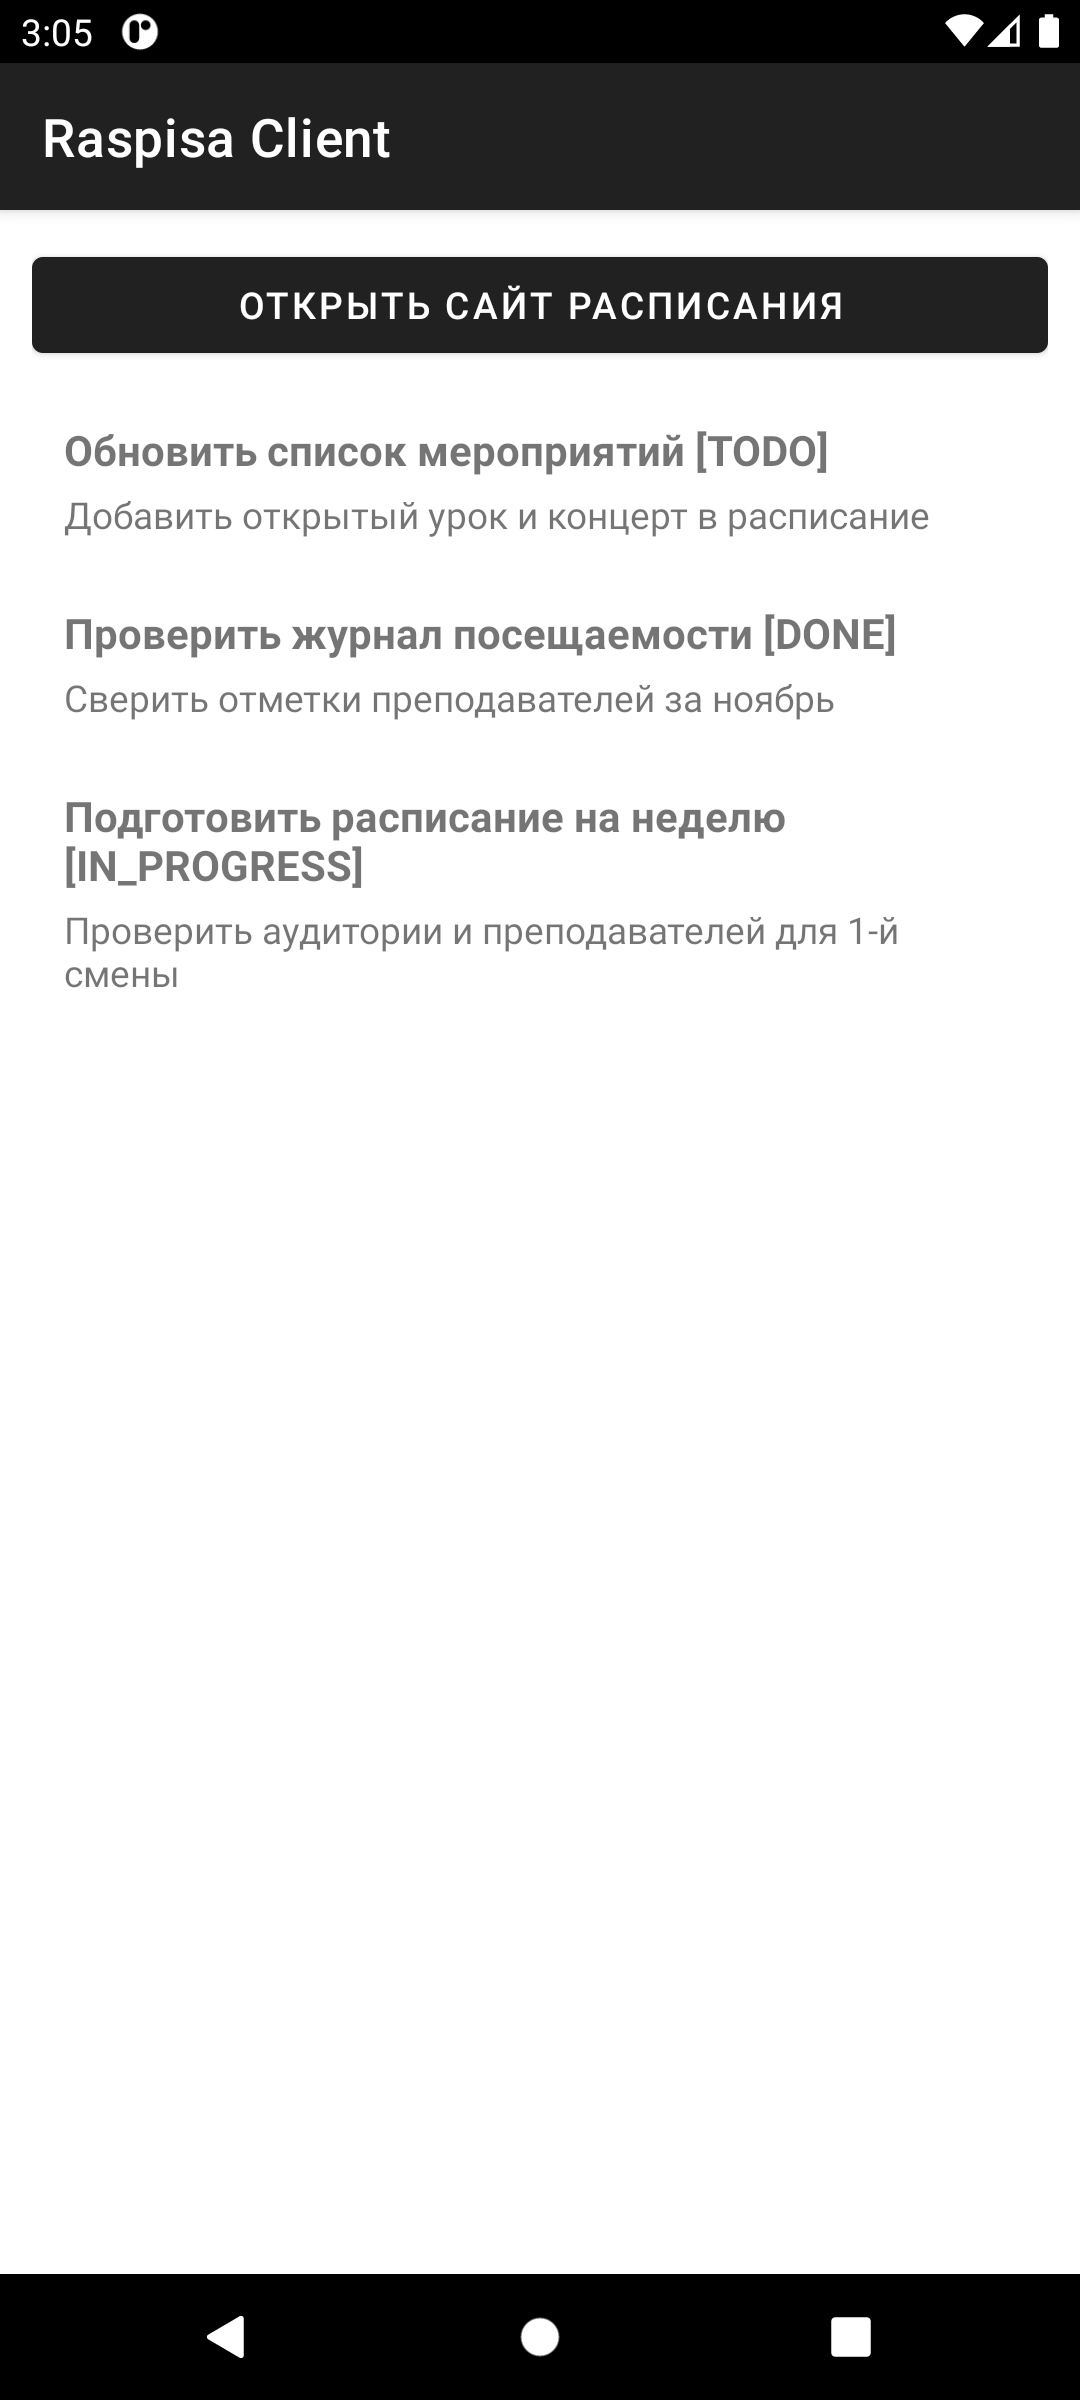
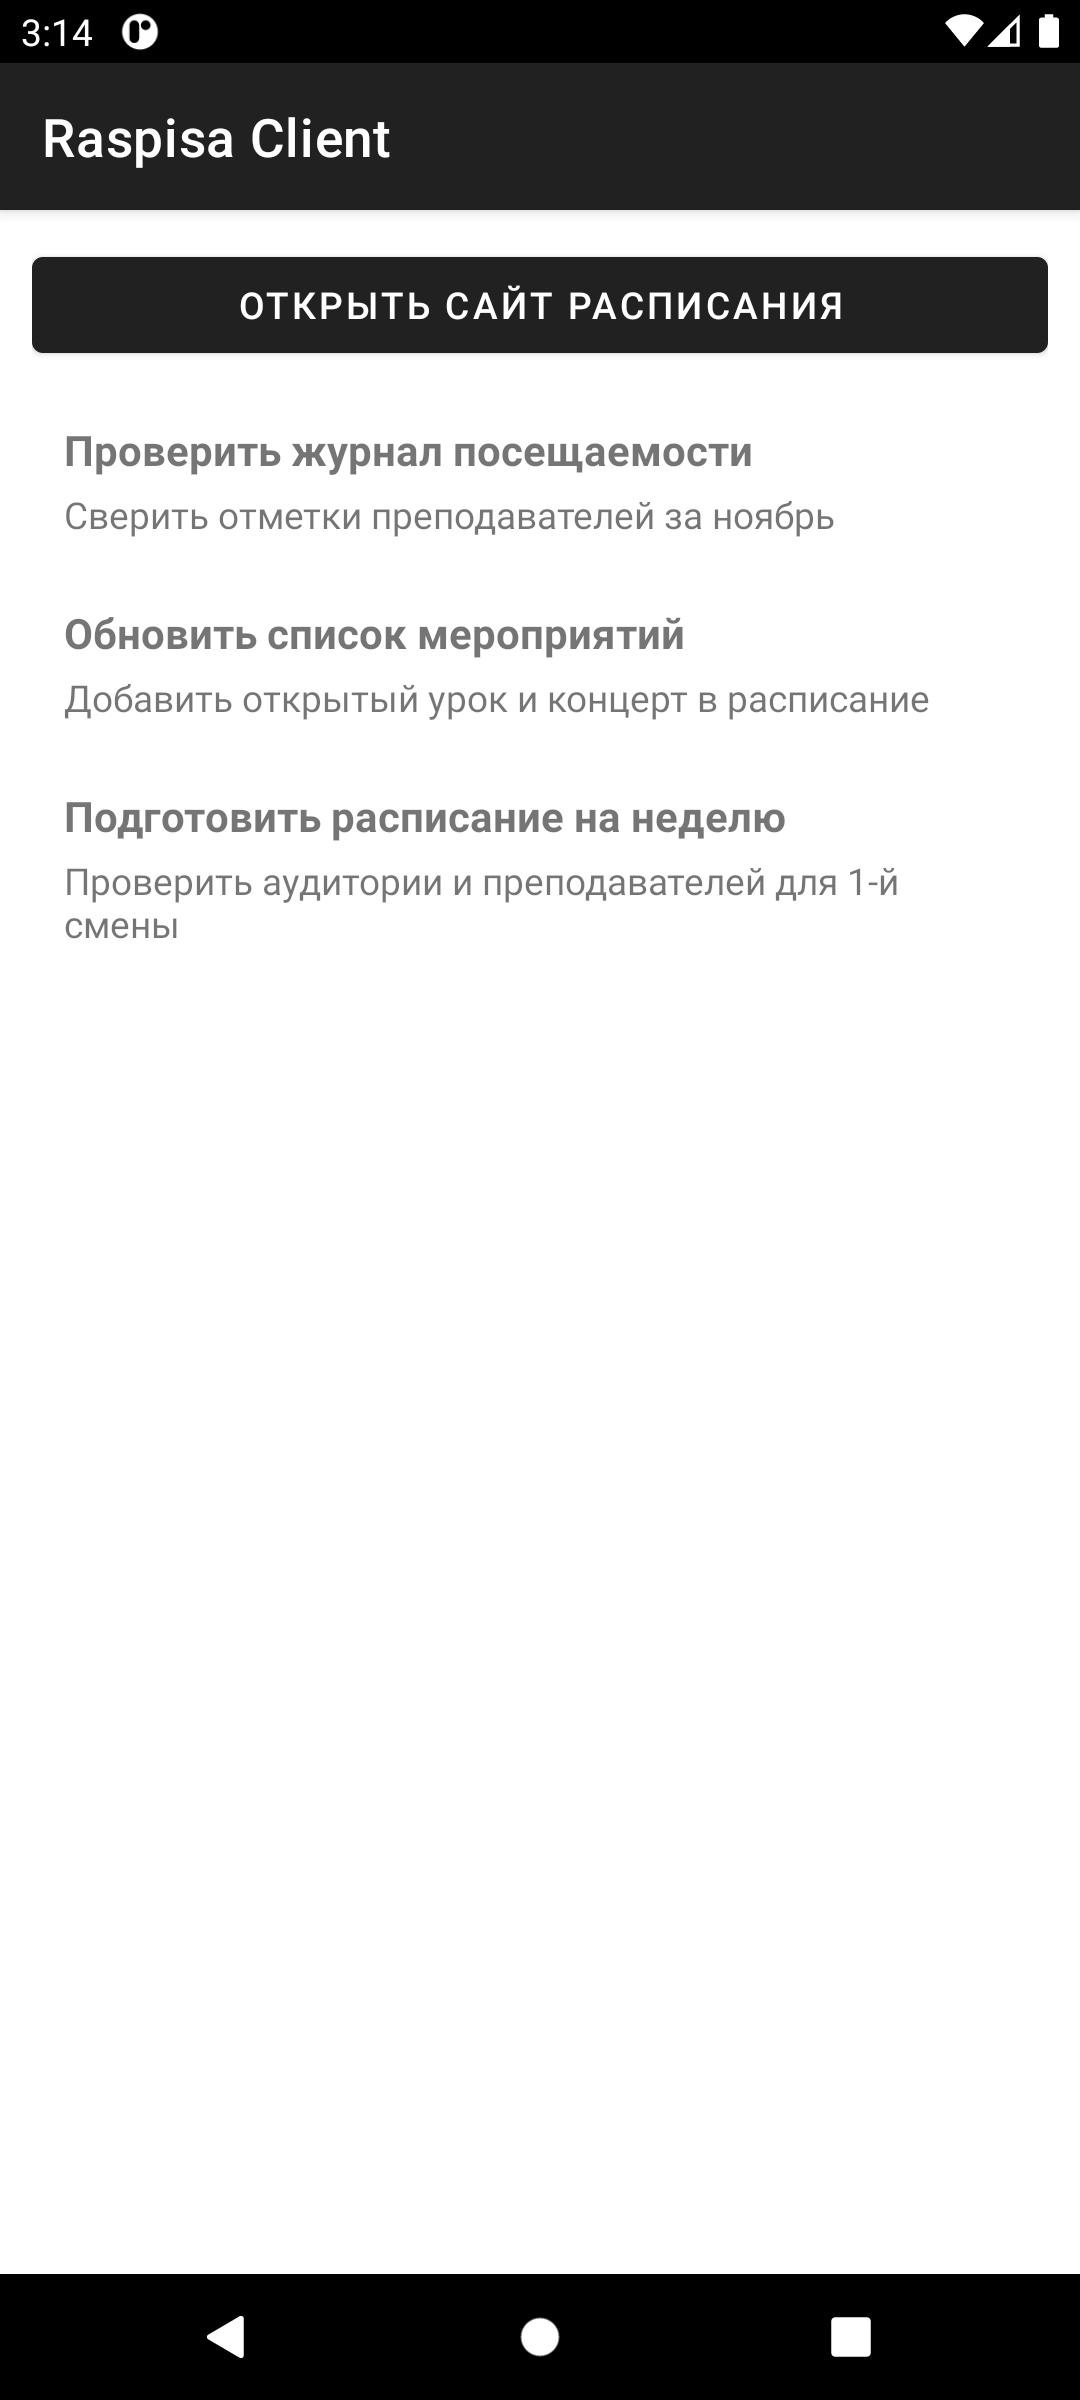
Clean up lab6 task list display and report text

diff --git a/sem2/lab6/android-client/app/src/main/java/com/example/raspisaclient/TaskAdapter.java b/sem2/lab6/android-client/app/src/main/java/com/example/raspisaclient/TaskAdapter.java
@@ -26,9 +26,7 @@ public class TaskAdapter extends RecyclerView.Adapter<TaskAdapter.TaskViewHolder
     @Override
     public void onBindViewHolder(@NonNull TaskViewHolder holder, int position) {
         Task task = taskList.get(position);
-        String title = task.getTitle() != null ? task.getTitle() : "";
-        String status = task.getStatus() != null ? " [" + task.getStatus() + "]" : "";
-        holder.titleTextView.setText(title + status);
+        holder.titleTextView.setText(task.getTitle() != null ? task.getTitle() : "");
         holder.descriptionTextView.setText(task.getDescription() != null ? task.getDescription() : "");
     }
 
